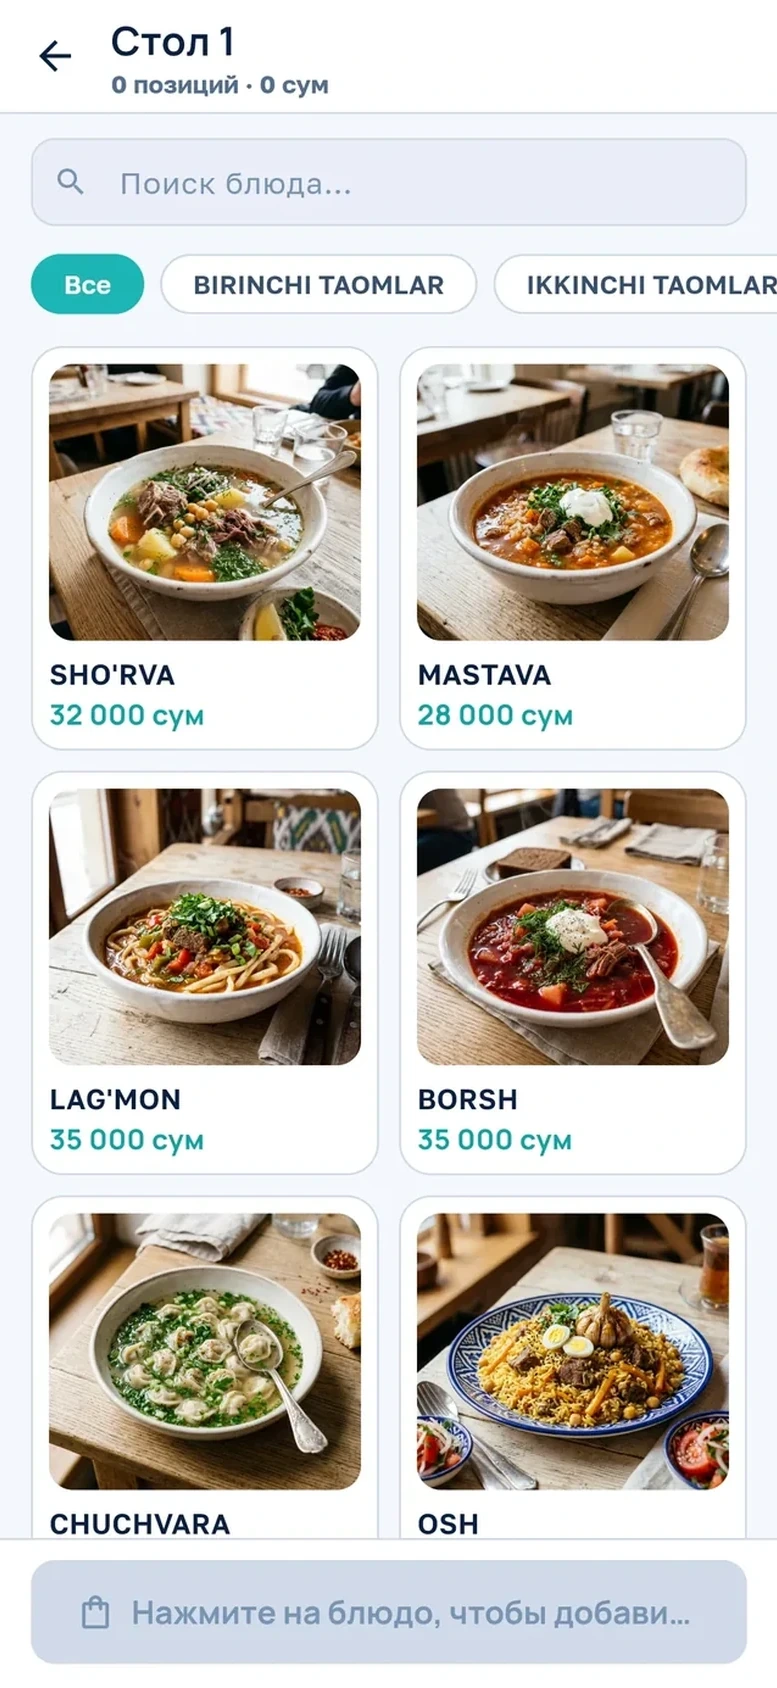
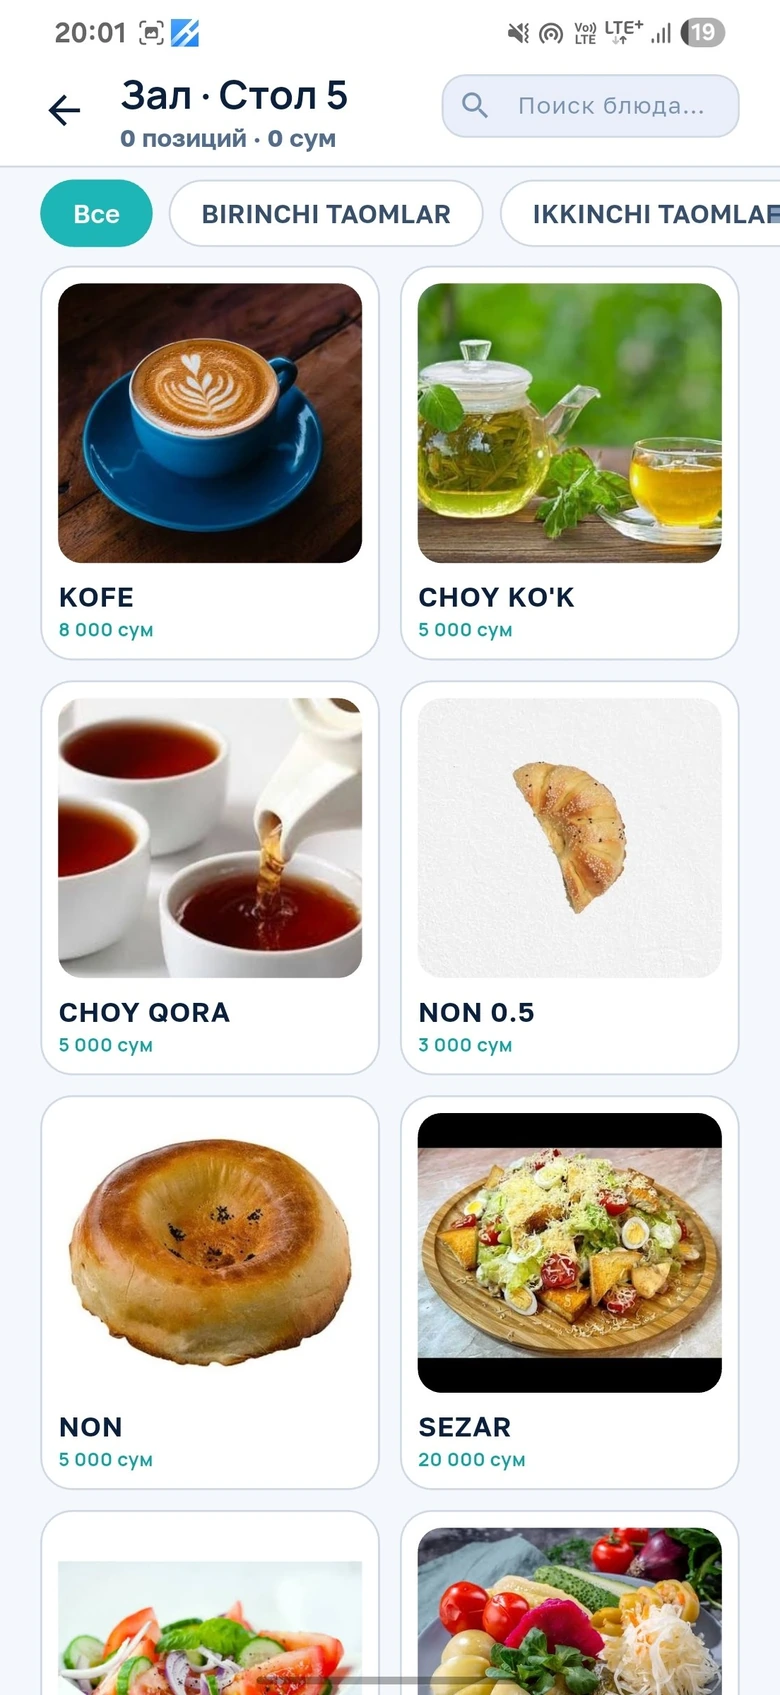
feat(landing-3d): follow-54 — staff-телефон показывает реальный скриншот Marjon Staff (image-52.png, 1080×2400, края реплицированы под аспект экрана, 780px webp); Dynamic Island staff уменьшен и вписан в статус-бар (v30)

diff --git a/landing-3d/src/style.css b/landing-3d/src/style.css
@@ -615,6 +615,7 @@ html.apps-open { overflow: hidden; }
 .iphone-screen { position: relative; display: block; width: 100%; height: 100%; border-radius: 13.2% / 6.4%; overflow: hidden; background: #000; }
 .iphone-screen img { width: 100%; height: 100%; object-fit: cover; object-position: 50% 0%; display: block; user-select: none; -webkit-user-drag: none; }
 .iphone-island { position: absolute; top: 1.9%; left: 50%; transform: translateX(-50%); width: 30%; height: 4.7%; border-radius: 999px; background: #000; z-index: 2; pointer-events: none; box-shadow: inset 0 0 0 1px rgba(255, 255, 255, .05); }
+.apps-col-staff .iphone-island { top: .55%; width: 23%; height: 4.15%; }
 .iphone-island::after { content: ""; position: absolute; top: 50%; right: 11%; width: 8.4%; aspect-ratio: 1; transform: translateY(-50%); border-radius: 50%; background: radial-gradient(circle at 38% 38%, #2a3b52 0%, #0d1420 55%, #05070c 100%); }
 .iphone-cap { display: grid; gap: 2px; justify-items: center; text-align: center; max-width: 22ch; }
 .iphone-cap b { color: var(--paper); font-size: .92rem; font-weight: 600; letter-spacing: -.01em; }
